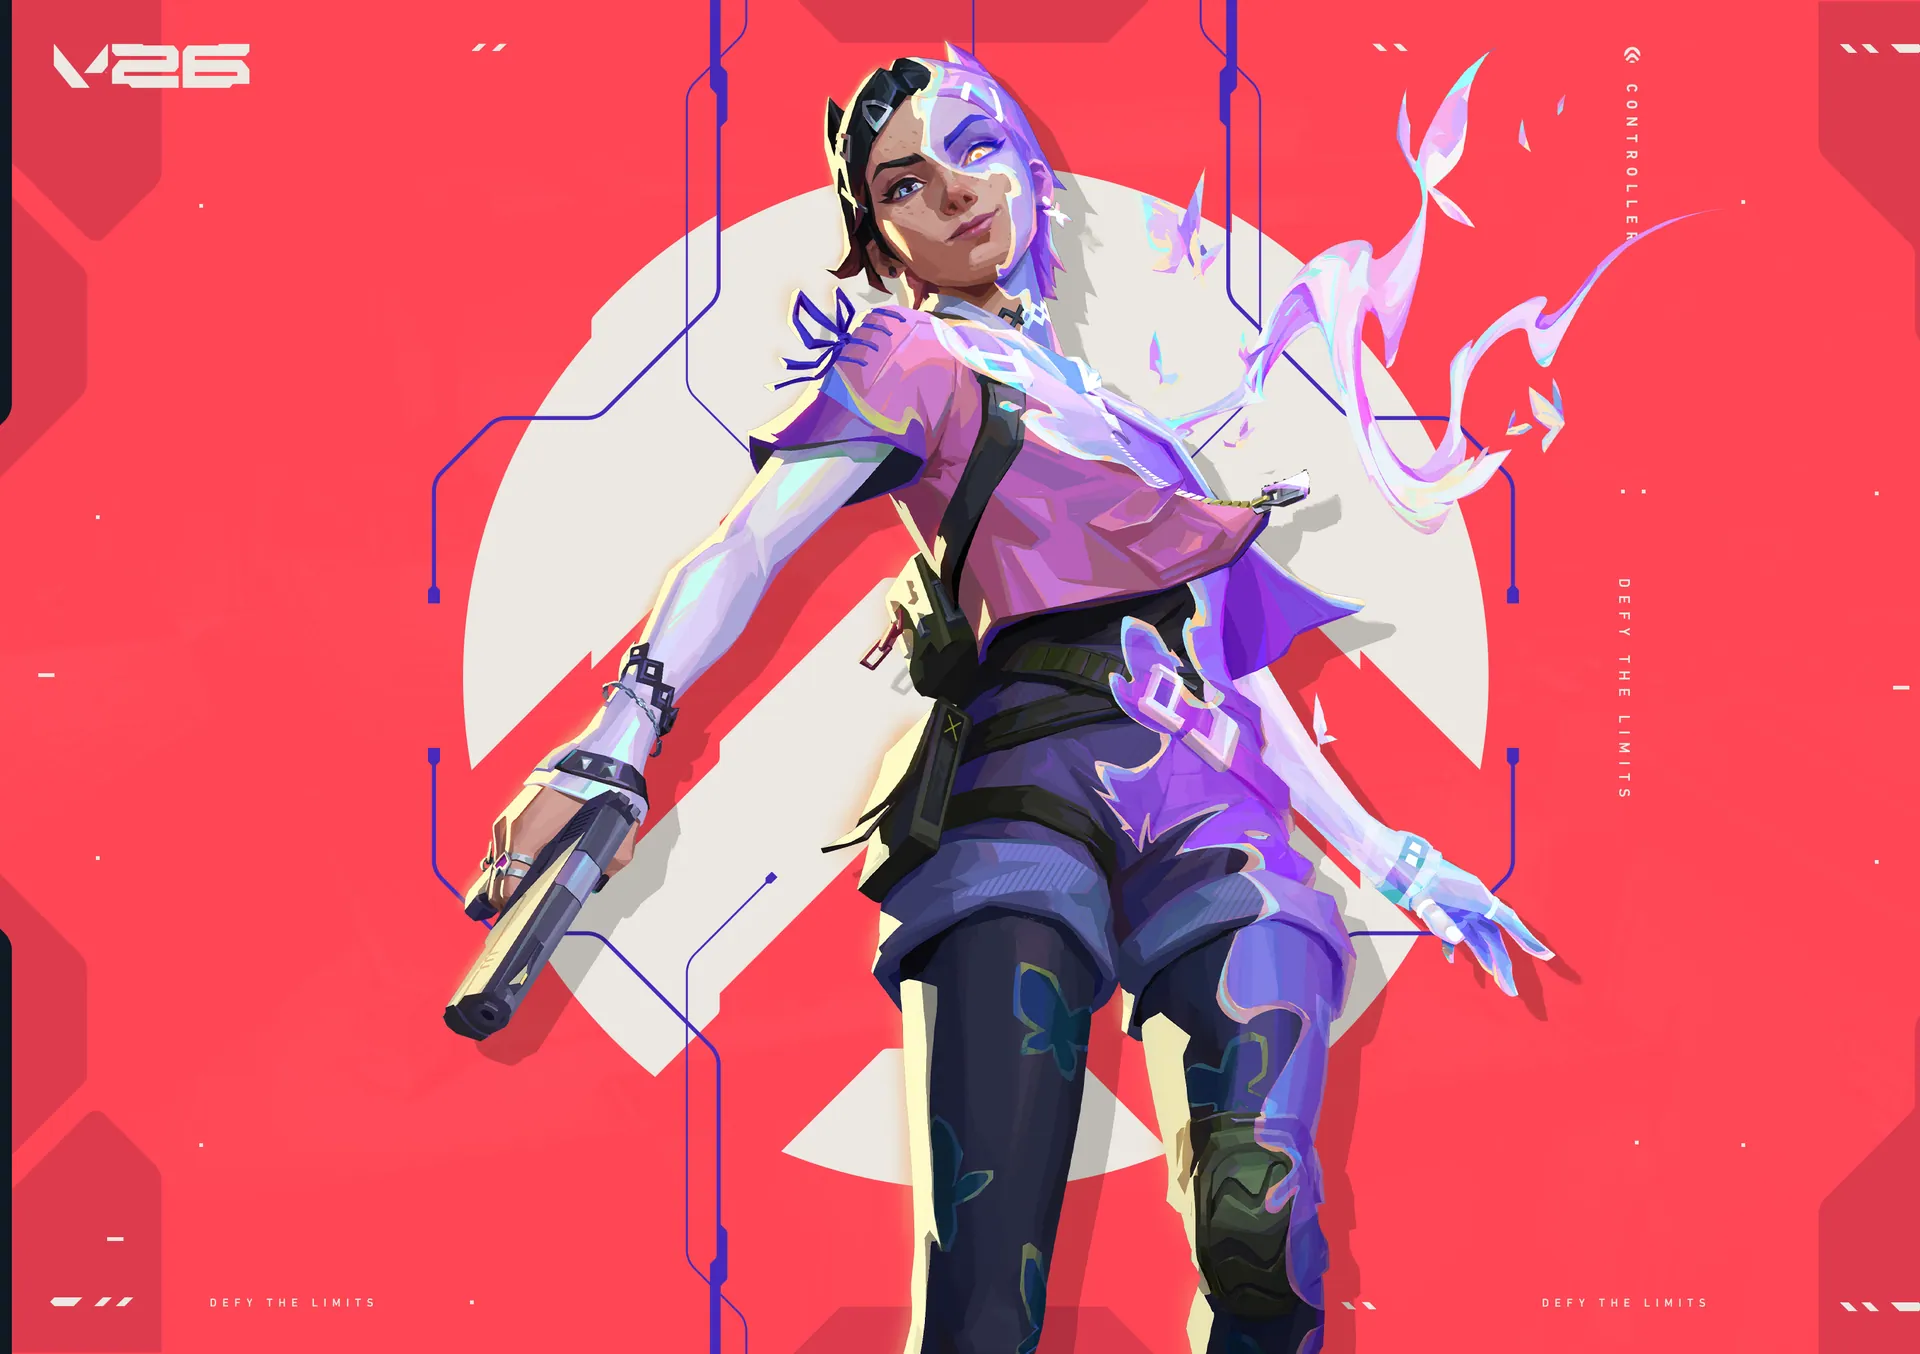
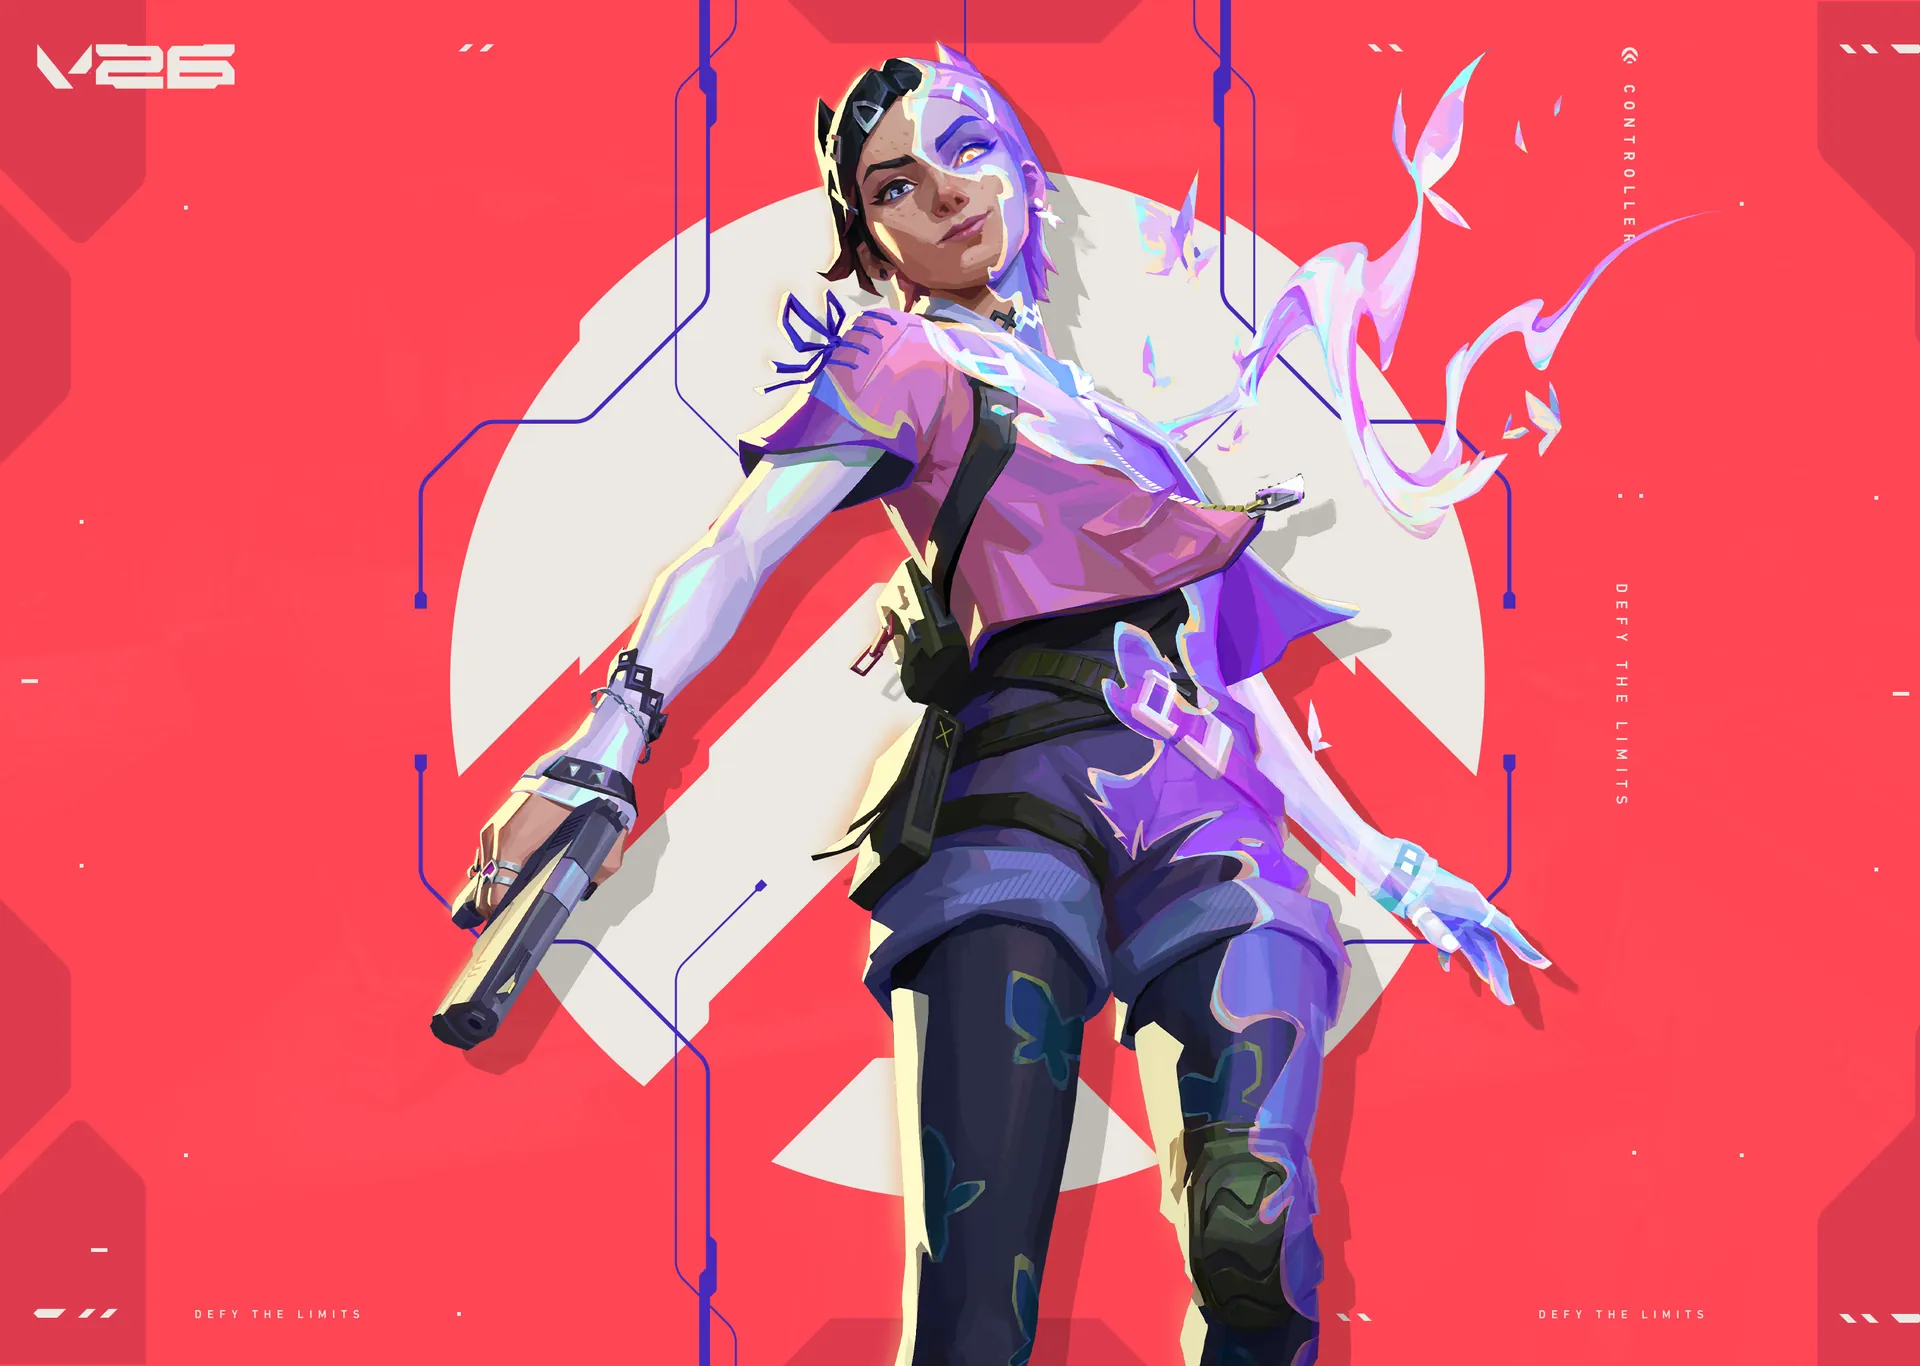
Finish the Clove trim and keep Omen's hood in frame

diff --git a/violetop/app/data/eventArtwork.ts b/violetop/app/data/eventArtwork.ts
@@ -80,7 +80,7 @@ export const teamEventArtwork = {
   black: {
     src: "/images/events/valorant-omen.webp",
     alt: "VALORANT artwork of Omen, VOP Black's featured agent",
-    objectPosition: "44% 24%",
+    objectPosition: "44% 8%",
   },
   ruby: {
     src: "/images/events/valorant-clove.webp",

diff --git a/docs/superpowers/specs/2026-09-23-homepage-swirl-polish-design.md b/docs/superpowers/specs/2026-09-23-homepage-swirl-polish-design.md
@@ -89,7 +89,7 @@
 
 - **Files:** `public/images/events/{valorant-vyse, valorant-reyna, valorant-omen, valorant-clove, league-elder-dragon, league-baron-nashor}.webp`.
   - 1920px wide WebP.
-  - The VALORANT crops end at 83% of the frame to drop the vertical "VALORANT" wordmark strip, and start at 2% (Vyse, Reyna), 3.2% (Clove) or 10.5% (Omen) to clear each layout's dark left side panel.
+  - The VALORANT crops end at 83% of the frame to drop the vertical "VALORANT" wordmark strip, and start at 2% (Vyse, Reyna), 3.9% (Clove) or 10.5% (Omen) to clear each layout's dark left side panel.
   - Per-image `objectPosition` keeps each character in frame in both tall and wide crops.
 - **Provenance:** 6 entries appended to `public/images/events/sources.json`.
 

diff --git a/docs/superpowers/plans/2026-09-23-homepage-swirl-polish.md b/docs/superpowers/plans/2026-09-23-homepage-swirl-polish.md
@@ -1544,4 +1544,4 @@ Changes made during review, after the tasks above were written:
   - There are 13 tests in total.
 - The WebGL2 probe uses `failIfMajorPerformanceCaveat`.
 - The mobile support grid resets to `grid-auto-rows: auto`.
-- The Omen and Clove art is re-cropped from x 10.5% and 3.2% respectively.
+- The Omen and Clove art is re-cropped from x 10.5% and 3.9% respectively.
